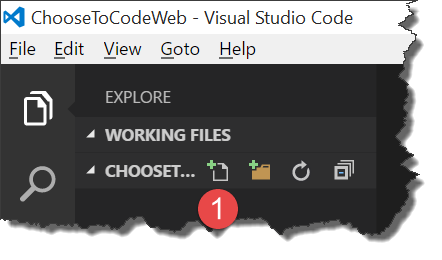
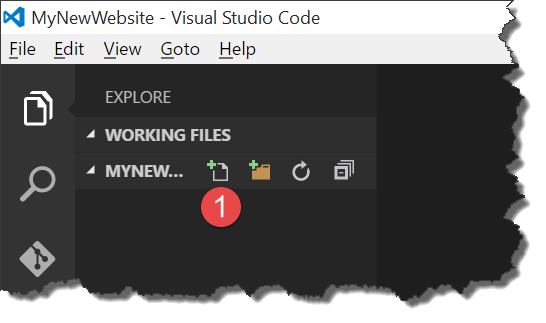
initial javascript

diff --git a/Module7.md b/Module7.md
@@ -4,3 +4,108 @@
 - What is javascript
 - Basic functions
 
+###What is JavaScript
+JavaScript is a computer language that brings interactivity to otherwise static web pages. JavaScript is the third pillar of building web pages. Nearly every website on the internet is using Javascript for some purpose. On a web page, whether it is advertising, user input validation or some other complex action, it was probably programmed in JavaScript.
+
+Up to this point we have only been using HTML tags and CSS styles to change the look of our page. In this module we are going to look at how we can use some simple code in JavaScript to make our web page interactive.
+
+###Red Alert!
+So let's start with the simplest example of JavaScript on your page. We will add a simple alert that will run as soon as your web page has completed loading. Let's add the following onload attribute to the \<body> tag.
+
+````
+<body onload="alert('Page is Loaded');">
+````
+
+When you save and reload your page, you should get a popup window that let's you know the page is loaded.
+
+But wait...did your browser warn you about running scripts or ActiveX controls. Maybe you were running Internet Explorer and this warning came up:
+
+![IE warning](images/ie-warning.png?raw=true) 
+
+It's OK...but it is good to point out that there can be good JavaScript and bad JavaScript. There are websites that use bad JavaScript to try to steal personal and private information from you in order to do bad things. Since you are running this JavaScript locally in your browser (rather than pulling it from Azure) IE is just making sure you know there is potentially a risk.
+
+
+###How do we add JavaScript to our Page
+It is interesting that we just started writing code in our \<body> tag. For a simple interaction, this may be acceptable, but you likely will not want a lot of code in your tags.
+
+We have already seen that we can add code directly to your tag. Let's fix our \<body> tag to give us flexibility for more code. Change the onload attribute to the following:
+
+````
+<body onload="onLoad()">
+````
+
+This will tell the page to call the "onLoad" function when our page is done loading. Let's add that "onLoad" function to our page. We are going to do this at the end of the \<head> tag.
+
+````
+<head>
+	<title>My First Web Page</title>
+	...
+	<script>
+		function onLoad() {
+			alert("Function onLoad() called");
+		}
+	</script>
+</head>
+````
+
+Now, we could also be explicit and tell the browser that our script is in fact JavaScript and you may see this in many example scripts, but it isn't required.
+
+````
+<script type="application/javascript">
+````
+
+This example put the \<script> code in the \<head> tag. We could also put the \<script> in the \<body> tag. When placing scripts in the \<body> tag, it is a good practive to put all of the script at the bottom to improve page performance.
+
+If you have a lot of script on a single page, your page can start to get out of hand. In this case, it might be a good idea to move your \<script> code out to another file and simply add a reference in your page.
+
+Let's do that with the script we have right now. In VS Code, add a new file and we'll call it "app.js". Next, copy the function to the JavaScript file.
+
+````
+function onLoad() {
+	alert("Function onLoad() called");
+}
+````
+
+**Be careful not to include \<script> tags in the external file.**
+
+Next, we need to modify the script tag in our \<head> to load the script from an external file.
+
+````
+<head>
+	<title>My First Web Page</title>
+	...
+	<script src="app.js" type="application/javascript"></script>
+</head>
+````
+
+Save and reload the page, and your page should behave as before.
+
+One of the advantages to putting your script in an external file is that it separates your code from your text. Additionally, it allows you to reuse the code from one page to another. If you start copying your scripts from page to page, if you decide you want to change the functionality, you will have to change your code in multiple places which is bad. If you find yourself copying code, you should start thinking about external files.
+
+###Making your content dynamic
+Popping up annoying alerts is not the best use of JavaScript, so let's take a look at some better uses of JavaScript.
+
+First we will take a look at dynamic content. We are going to start simple and update content when you click a button. First, let's add a placeholder for some content in the footer.
+
+````
+	<footer>
+		Copyright 2015
+		<p id="timestamp"></p>
+	</footer>
+````
+
+Notice we gave an "id" to the \<p> tag in the footer. This is going to give us the ability to modify that tag specifically. Let's modify the JavaScript code and then look at what is going on.
+
+````
+function onLoad() {
+	document.getElementById("timestamp").innerHTML = Date();
+}
+````
+
+Save and reload the page. Next, examine the footer on your page and notice that the content shows the Date and Time of the page load. Once the document was loaded, we asked for the element that had an id of "timestamp" and then modified all of the HTML inside to be the result of the "Date()" function.
+
+It's important when doing code like this that you wait until the document has completed loading. If the code ran before the \<footer> had been loaded, the code would have executed and nothing would have happened.
+
+###Responding to events
+So far, we have looked at running code when a page loads. However, there are a lot of interesting things happening when a user is looking at our page. If they are using a mouse, there are events that can set code in motion when the mouse "hovers" over an element or "clicks" an element.
+If you create a form for people to 

diff --git a/First Web Page.md b/First Web Page.md
@@ -14,11 +14,10 @@ In the dialog window that comes up, navigate to a good location to store your ne
 When you return to Code, you should have your new website folder open in your project.
 
 ![Code Folder](images/code-folder.png?raw=true)
-[//]: # This image does not map to the image on my system, which shows MYNEWWEBSITE, because I wrote my folder to be the same as the image.
 
 Alright, now let's create a new file in your website folder for the text of our web page. We'll do this by hovering the mouse over the folder and clicking the icon that looks like a piece of paper with a plus sign (1).
 
-(![New file](images/new-file.png?raw=true)
+![New file](images/new-file.png?raw=true)
 
 Now, let's name the file "index.html". Really, you could call the page anything, but most websites have an index page as their first page, so it's a good idea to name your file this way.
 
